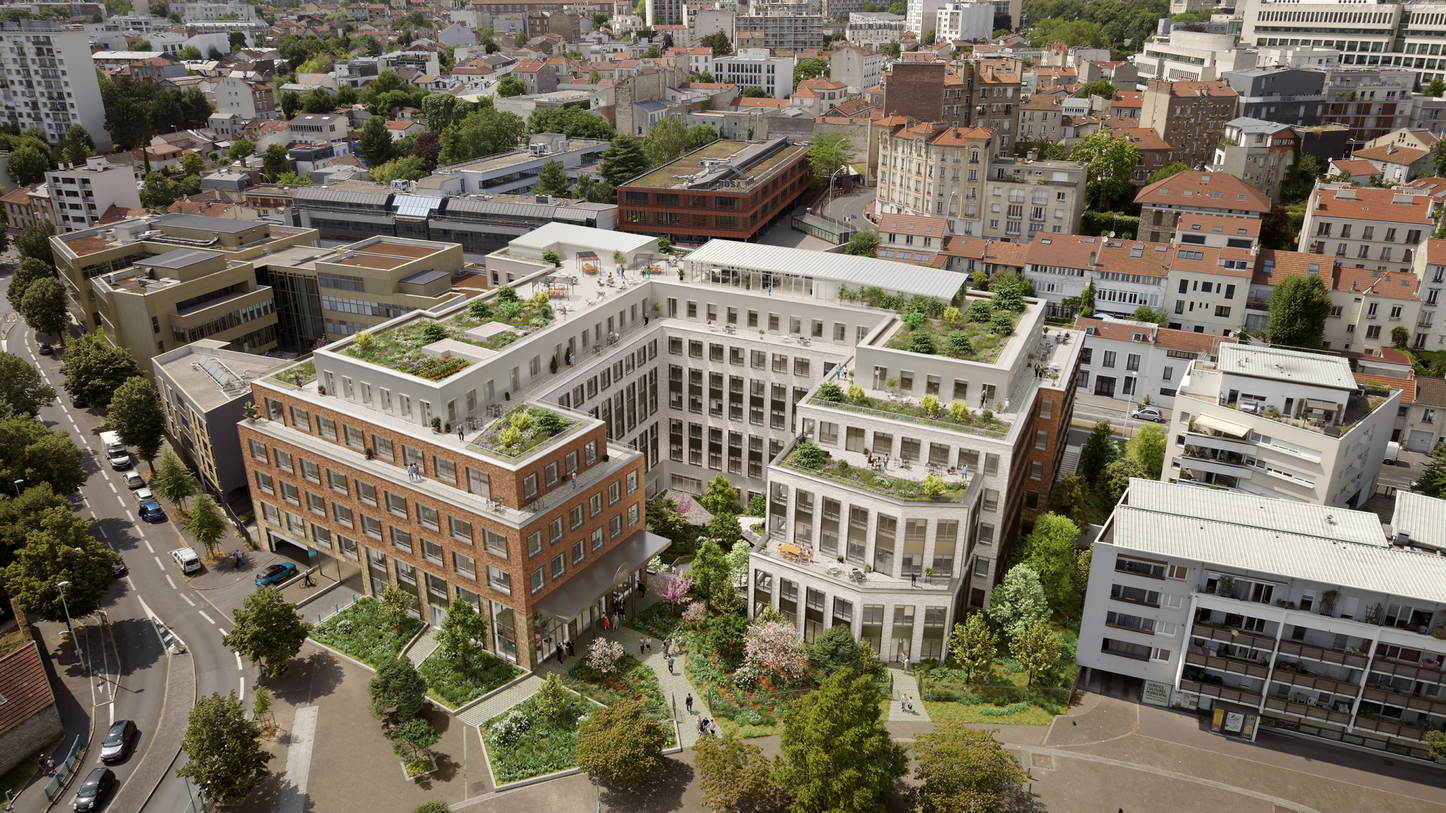
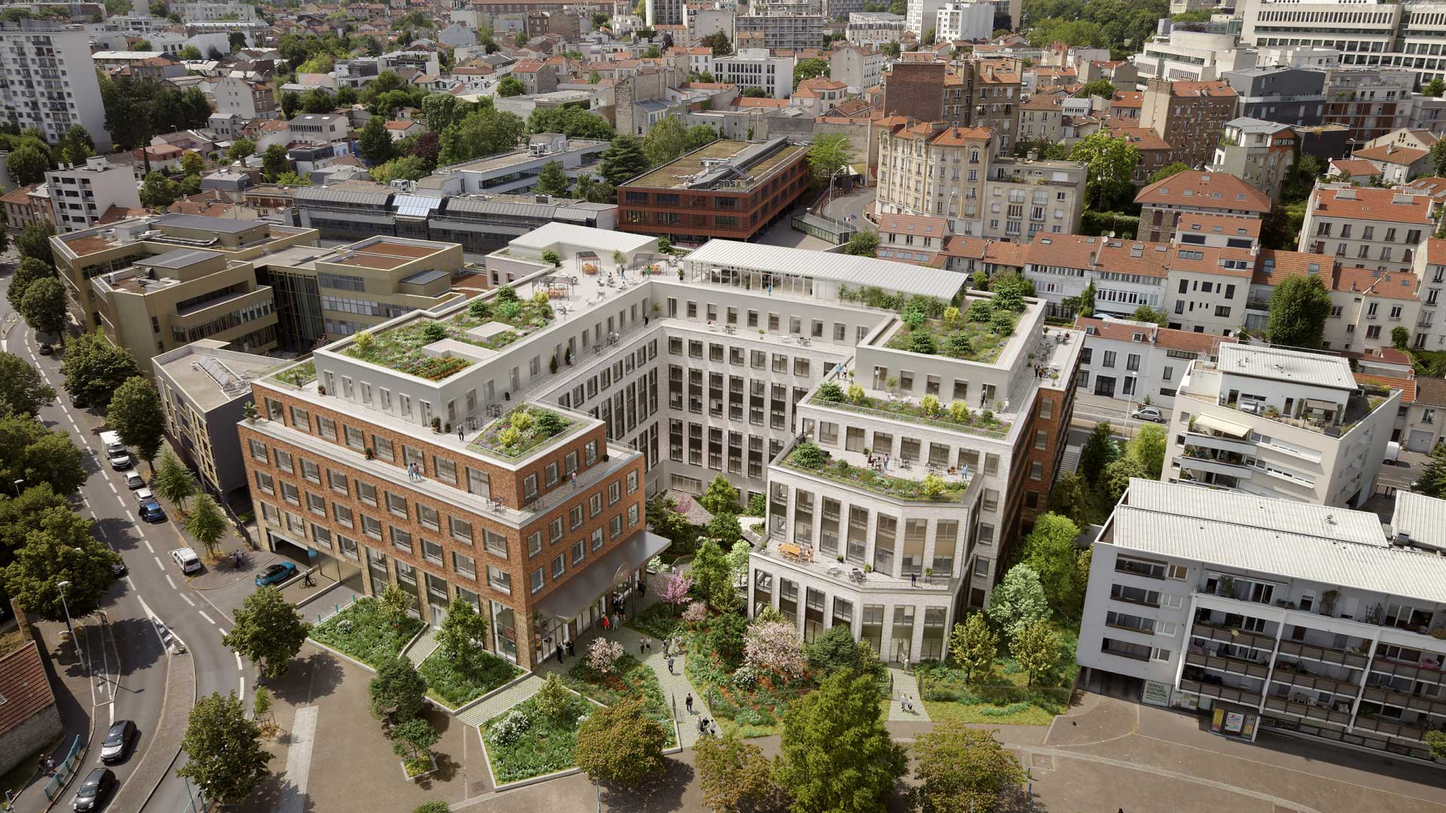
images compressed

diff --git a/comme-un-fruit.html b/comme-un-fruit.html
@@ -150,7 +150,7 @@
                             <img src="./assets/images/cuf-img-1-rotated.jpg" alt="">
                         </figure>
                         <figure class="longImg" data-scroll data-scroll-speed="0.3">
-                            <img src="./assets/images/cuf-img-1.png" alt="">
+                            <img src="./assets/images/cuf-img-1.jpg" alt="">
                         </figure>
                         <div class="brandRow">
                             <div class="brandWrapper">
